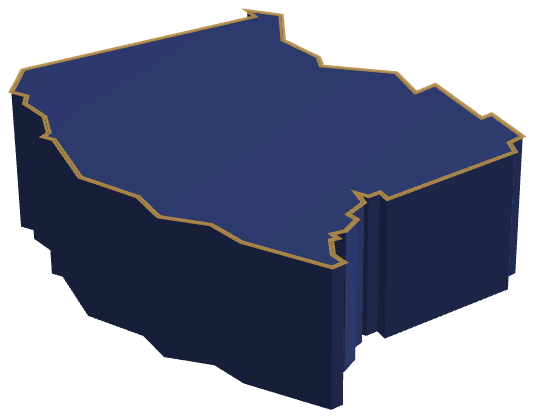
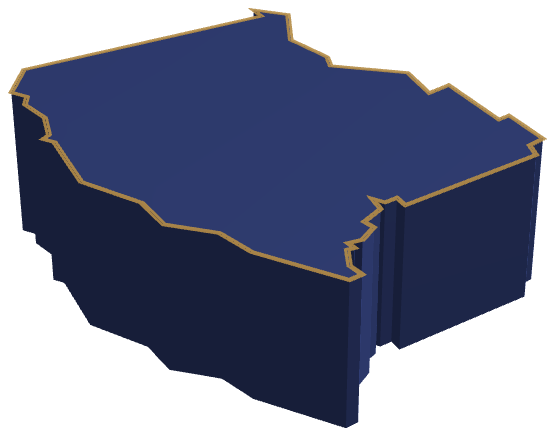
Phones: Macon-Bibb centered on the opening screen (it sat about 20px left), its stand-in picture re-rendered to match; every visit opens on the first scene

diff --git a/js/commute-intro.js b/js/commute-intro.js
@@ -286,7 +286,20 @@
             const pts = rings.flatMap(r => r.ring).filter((p, i) => i % 4 === 0);
             const top = 56, bottom = H - Math.max(150, H * 0.24);   // clear of the time pill and the caption
             CAMERA.forEach((kf, i) => {
-                if (i === 0) return;   // the welcome keeps Macon-Bibb alone under the headline
+                if (i === 0) {
+                    // the welcome: Macon-Bibb alone under the headline, centered across the screen
+                    // (the desktop camera leaves it about 20px left of center on a phone)
+                    const bibb = rings.filter(r => r.fips === BIBB).flatMap(r => r.ring);
+                    let v = { ...kf[1] };
+                    for (let pass = 0; pass < 2; pass++) {
+                        const vp = new deck.WebMercatorViewport({ width: W, height: H, ...v });
+                        const xs = bibb.map(p => vp.project(p)[0]), dx = (d3.min(xs) + d3.max(xs)) / 2 - W / 2;
+                        const c = vp.unproject([W / 2 + dx, H / 2]);
+                        v = { ...v, longitude: c[0], latitude: c[1] };
+                    }
+                    kf[1] = v;
+                    return;
+                }
                 let v = { ...kf[1], pitch: Math.min(kf[1].pitch, 40) };
                 for (let pass = 0; pass < 3; pass++) {
                     const vp = new deck.WebMercatorViewport({ width: W, height: H, ...v });

diff --git a/index.html b/index.html
@@ -90,7 +90,7 @@
             <div class="ci-stage" id="ci-stage" data-pad-left="400" data-pad-breakpoint="900">
                 <div class="ci-shadow" aria-hidden="true"></div>
                 <!-- Phones: a picture of the opening Macon-Bibb block, shown at once while the 3D starts up (tools/render-poster.js) -->
-                <img class="ci-poster" src="assets/story/opening-phone.png" alt="" aria-hidden="true" width="268" height="209" fetchpriority="high" decoding="async">
+                <img class="ci-poster" src="assets/story/opening-phone.png" alt="" aria-hidden="true" width="278" height="218" fetchpriority="high" decoding="async">
                 <div id="ci-map" aria-hidden="true"></div>
                 <div class="ci-time" aria-hidden="true"><span id="ci-time-icon">☾</span><span id="ci-time-label">5:00 AM</span></div>
                 <div class="ci-tip" id="ci-tip"></div>

diff --git a/js/scenes-phone.js b/js/scenes-phone.js
@@ -25,6 +25,11 @@
     const fits = window.matchMedia('(max-width: 700px) and (pointer: coarse)');
     fits.addEventListener && fits.addEventListener('change', () => { if (!fits.matches) location.reload(); });
 
+    // Every visit opens on the first scene (Safari would otherwise restore an old scroll position,
+    // partway between scenes), unless the link is to a section
+    if ('scrollRestoration' in history) history.scrollRestoration = 'manual';
+    if (!location.hash) window.scrollTo(0, 0);
+
     // The opening's prompt says what a phone does here
     const cue = document.querySelector('.ci-scroll');
     if (cue && cue.firstChild && cue.firstChild.nodeType === 3) cue.firstChild.textContent = 'Swipe up to watch a workday';

diff --git a/css/commute-intro.css b/css/commute-intro.css
@@ -166,7 +166,7 @@ body.ci-presenting .ci-present-hint { display: block; }
 .ci-poster { display: none; }
 @media (max-width: 700px) {
     .ci-poster {
-        --poster-w: 267.5px; --poster-dx: -18.8px; --poster-dy: 51.5px;
+        --poster-w: 277.5px; --poster-dx: 0.3px; --poster-dy: 55.5px;
         display: block; position: absolute; z-index: 0; pointer-events: none;
         left: calc(50% + var(--poster-dx)); top: calc(50% + var(--poster-dy)); width: var(--poster-w); height: auto;
         transform: translate(-50%, -50%); transition: opacity 0.8s ease;
